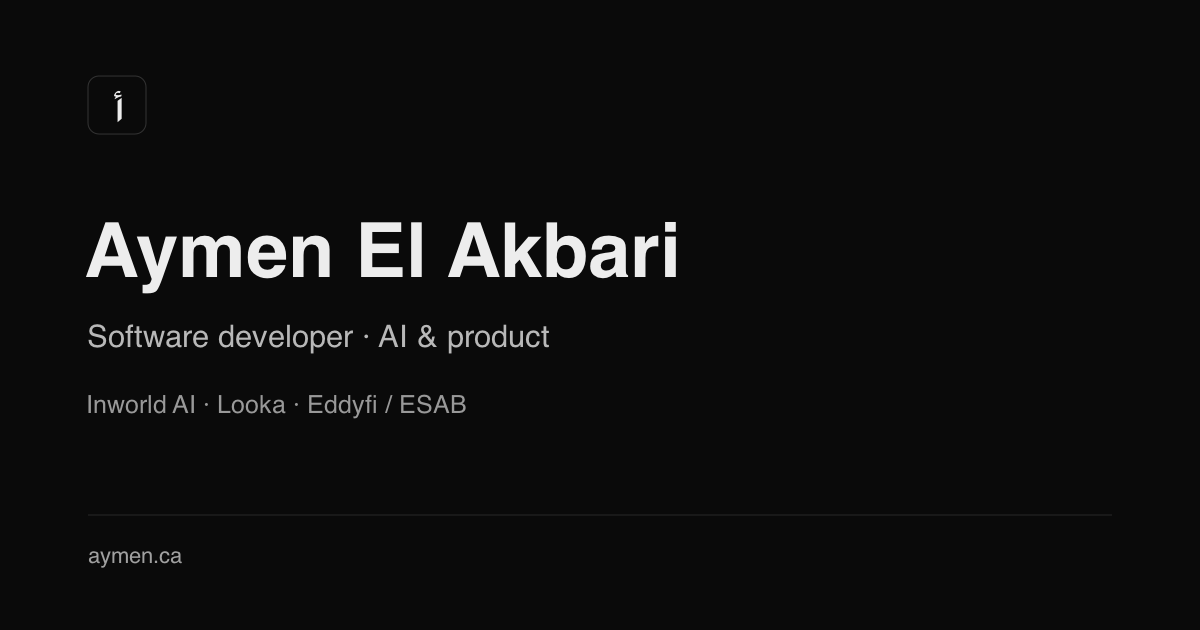
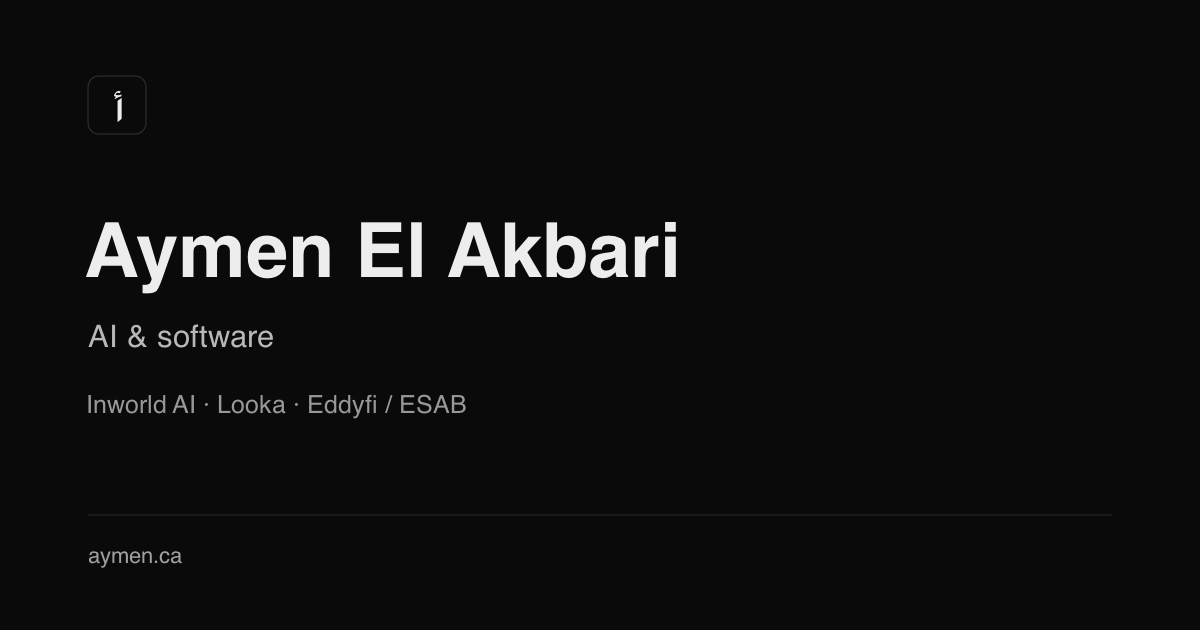
Refine portfolio positioning and add SaaS and stealth work

Changed region(s): [[0.0617, 0.5127, 0.4625, 0.573]]

diff --git a/src/lib/i18n.ts b/src/lib/i18n.ts
@@ -20,6 +20,7 @@ export interface SiteCopy {
 		workTitle: string;
 		work: string[];
 		skillsTitle: string;
+		toolGroups: { title: string; items: string[] }[];
 		experienceTitle: string;
 		experience: { company: string; role: string; period: string; description: string }[];
 		educationTitle: string;
@@ -42,8 +43,8 @@ const copy: Record<Locale, SiteCopy> = {
 		common: { skipToContent: 'Skip to content', contact: 'Get in touch', source: 'Source', backHome: 'Back home', allPosts: 'All notes', allProjects: 'All projects', readMore: 'Read more', updated: 'Updated', share: 'Share', copyLink: 'Copy link', copied: 'Link copied', copyFailed: 'Could not copy. Copy the address from your browser.' },
 		home: {
 			description: 'Aymen El Akbari — software developer in Canada. AI character systems at Inworld, design tools at Looka, and NDT configuration at Eddyfi / ESAB.',
-			role: 'Software developer · AI & product',
-			intro: 'Character memory at Inworld. AI-powered design at Looka. Now, NDT configuration at Eddyfi / ESAB.',
+			role: 'AI & software',
+			intro: 'Character memory at Inworld. AI-powered design at Looka. SaaS at Bloc Solutions. Now, NDT configuration at Eddyfi / ESAB.',
 			employerPrefix: 'Currently at',
 			location: 'Canada.',
 			aboutLink: 'More about me',
@@ -59,14 +60,15 @@ const copy: Record<Locale, SiteCopy> = {
 				'At Eddyfi / ESAB, I build software for non-destructive testing (NDT). The probe tools turn inspection requirements into compatible product configurations and quote requests: tube material and dimensions on one side, probe specifications and part numbers on the other.',
 				'I’ve also had to sell and operate what I built. I founded owood at 18, handled the product and its Shopify store, and took it from a Kickstarter launch to acquisition. Later, I ran a five-person web agency.',
 			],
-			skillsTitle: 'Tools I work with',
+			skillsTitle: 'Toolkit & current focus',
+			toolGroups: [{"title": "AI development", "items": ["Claude", "Codex"]}, {"title": "Current focus", "items": ["AI agents", "AutoML", "Distributed systems"]}, {"title": "Product & services", "items": ["TypeScript", "React", "Vue.js", "Node.js", "Python", "Kotlin", "C# / ASP.NET", "PHP / Laravel"]}, {"title": "Data & delivery", "items": ["PostgreSQL", "SQL / NoSQL", "REST APIs", "Docker"]}],
 			experienceTitle: 'Experience',
 			experience: [
 				{ company: 'ESAB', role: 'Software Developer', period: 'Jun 2026 – present', description: 'Web platforms across Eddyfi, Zetec, Sisgeo, Sensor Networks, and Huggenberger during the ESAB–Eddyfi integration.' },
 				{ company: 'Eddyfi Technologies', role: 'Software Developer', period: 'Sep 2023 – present', description: 'Built the Tubing Probe Creator and PAUT Probe Finder: configuration and quoting tools for non-destructive testing. Also work on internal platforms and API integrations.' },
 				{ company: 'Looka', role: 'Software Developer', period: 'Oct 2021 – Sep 2023', description: 'Built backend services, data pipelines, and product interfaces for AI-generated logos and brand identities.' },
 				{ company: 'Inworld AI', role: 'Kotlin Developer · consultant', period: 'Mar – Aug 2022', description: 'Worked on AI character behavior and memory systems with Kotlin and SQL/NoSQL databases.' },
-				{ company: 'Bloc Solutions', role: 'Analyst → Frontend Developer', period: 'Oct 2019 – Dec 2021', description: 'Moved from analytics into frontend development in October 2020. Built product interfaces with Vue, PHP, and Laravel.' },
+				{ company: 'Bloc Solutions', role: 'Analyst → Frontend Developer', period: 'Oct 2019 – Dec 2021', description: 'Moved from analytics into frontend development in October 2020. Worked on a rental-management SaaS with Vue.js, Laravel, PostgreSQL, and Docker.' },
 				{ company: 'Quota Agence Web', role: 'Founder & Web Developer', period: 'Jun 2020 – Nov 2021', description: 'Ran a five-person agency delivering more than 35 web projects. Worked on development, scoping, sales, and delivery.' },
 				{ company: 'owood', role: 'Founder', period: 'Mar 2018 – Feb 2020', description: 'Founded a wooden watch brand at 18. Built the product and Shopify store, ran the Kickstarter launch, and handled marketing and fulfillment. Acquired in 2020.' },
 			],
@@ -80,10 +82,10 @@ const copy: Record<Locale, SiteCopy> = {
 			outsideTitle: 'Outside of work',
 			outside: [],
 		},
-		projects: { title: 'Work', description: 'Inspection probes, AI characters, brand-generation tools, and a watch brand.' },
+		projects: { title: 'Work', description: 'NDT configuration, AI character systems, design tools, rental-management SaaS, and a new intelligence platform in development.' },
 		blog: { title: 'Notes', description: 'Short notes on web development and the decisions behind this site.', back: 'All notes', empty: 'No notes published yet.' },
 		notFound: { title: 'Page not found', description: 'This page may have moved, or the address may be incorrect.' },
-		status: { active: 'active', shipped: 'built', sunset: 'archived', building: 'in progress', employed: 'at work', running: 'running', exited: 'acquired' },
+		status: { active: 'active', shipped: 'shipped', past: 'past work', sunset: 'closed', building: 'in development', employed: 'at work', running: 'running', exited: 'acquired' },
 	},
 	fr: {
 		nav: { home: 'accueil', about: 'à propos', blog: 'notes', projects: 'projets', label: 'Navigation principale', openMenu: 'Ouvrir le menu', closeMenu: 'Fermer le menu', language: 'Langue' },
@@ -91,8 +93,8 @@ const copy: Record<Locale, SiteCopy> = {
 		common: { skipToContent: 'Aller au contenu', contact: 'Me joindre', source: 'Code source', backHome: "Retour à l’accueil", allPosts: 'Toutes les notes', allProjects: 'Tous les projets', readMore: 'Lire la suite', updated: 'Mise à jour', share: 'Partager', copyLink: 'Copier le lien', copied: 'Lien copié', copyFailed: "Copie impossible. Copiez l’adresse dans votre navigateur." },
 		home: {
 			description: 'Aymen El Akbari, développeur logiciel au Canada. Personnages IA chez Inworld, outils de design chez Looka et configuration de sondes CND chez Eddyfi / ESAB.',
-			role: 'Développeur logiciel · IA & produit',
-			intro: 'La mémoire des personnages chez Inworld. Le design par IA chez Looka. Aujourd’hui, la configuration de sondes CND chez Eddyfi / ESAB.',
+			role: 'IA et logiciel',
+			intro: 'La mémoire des personnages chez Inworld. Le design par IA chez Looka. Le SaaS chez Bloc Solutions. Aujourd’hui, la configuration de sondes CND chez Eddyfi / ESAB.',
 			employerPrefix: 'Actuellement chez',
 			location: 'Canada.',
 			aboutLink: 'En savoir plus sur moi',
@@ -108,14 +110,15 @@ const copy: Record<Locale, SiteCopy> = {
 				'Chez Eddyfi / ESAB, je développe des logiciels de contrôle non destructif (CND). Les outils de sélection de sondes traduisent les besoins d’inspection en configurations compatibles et en demandes de soumission : d’un côté, le matériau et les dimensions d’un tube; de l’autre, les caractéristiques et les numéros de pièce des sondes.',
 				'J’ai aussi dû vendre et faire fonctionner ce que je créais. J’ai fondé owood à 18 ans, conçu le produit et sa boutique Shopify, puis mené la marque d’un lancement sur Kickstarter jusqu’à son acquisition. J’ai ensuite dirigé une agence Web de cinq personnes.',
 			],
-			skillsTitle: 'Mes outils de travail',
+			skillsTitle: 'Outils et pistes actuelles',
+			toolGroups: [{"title": "Développement avec l’IA", "items": ["Claude", "Codex"]}, {"title": "Axes actuels", "items": ["Agents IA", "AutoML", "Systèmes distribués"]}, {"title": "Produit et services", "items": ["TypeScript", "React", "Vue.js", "Node.js", "Python", "Kotlin", "C# / ASP.NET", "PHP / Laravel"]}, {"title": "Données et déploiement", "items": ["PostgreSQL", "SQL / NoSQL", "REST APIs", "Docker"]}],
 			experienceTitle: 'Expérience',
 			experience: [
 				{ company: 'ESAB', role: 'Développeur logiciel', period: 'Juin 2026 – aujourd’hui', description: 'Plateformes Web d’Eddyfi, Zetec, Sisgeo, Sensor Networks et Huggenberger dans le cadre de l’intégration d’ESAB et d’Eddyfi.' },
 				{ company: 'Eddyfi Technologies', role: 'Développeur logiciel', period: 'Sept. 2023 – aujourd’hui', description: 'Création de Tubing Probe Creator et de PAUT Probe Finder : des outils de configuration et de soumission pour le contrôle non destructif. Travail également sur les plateformes internes et les intégrations d’API.' },
 				{ company: 'Looka', role: 'Développeur logiciel', period: 'Oct. 2021 – sept. 2023', description: 'Développement de services backend, de pipelines de données et d’interfaces pour la création de logos et d’identités de marque par IA.' },
 				{ company: 'Inworld AI', role: 'Développeur Kotlin · consultant', period: 'Mars – août 2022', description: 'Travail sur le comportement et la mémoire de personnages IA avec Kotlin et des bases de données SQL/NoSQL.' },
-				{ company: 'Bloc Solutions', role: 'Analyste → développeur frontend', period: 'Oct. 2019 – déc. 2021', description: 'Passage de l’analyse de données au développement frontend en octobre 2020. Création d’interfaces avec Vue, PHP et Laravel.' },
+				{ company: 'Bloc Solutions', role: 'Analyste → développeur frontend', period: 'Oct. 2019 – déc. 2021', description: 'Passage de l’analyse de données au développement frontend en octobre 2020. Travail sur un SaaS de gestion locative avec Vue.js, Laravel, PostgreSQL et Docker.' },
 				{ company: 'Quota Agence Web', role: 'Fondateur et développeur Web', period: 'Juin 2020 – nov. 2021', description: 'Direction d’une agence de cinq personnes et livraison de plus de 35 projets Web. Développement, définition des mandats, ventes et livraison.' },
 				{ company: 'owood', role: 'Fondateur', period: 'Mars 2018 – févr. 2020', description: 'Création d’une marque de montres en bois à 18 ans. Produit, boutique Shopify, lancement sur Kickstarter, marketing et commandes. Entreprise acquise en 2020.' },
 			],
@@ -129,10 +132,10 @@ const copy: Record<Locale, SiteCopy> = {
 			outsideTitle: 'En dehors du travail',
 			outside: [],
 		},
-		projects: { title: 'Projets', description: 'Des sondes d’inspection, des personnages IA, des outils de création de marques et une marque de montres.' },
+		projects: { title: 'Projets', description: 'Configuration de sondes CND, personnages IA, outils de design, SaaS de gestion locative et une plateforme d’intelligence en développement.' },
 		blog: { title: 'Notes', description: 'Quelques notes sur le développement Web et les choix derrière ce site.', back: 'Toutes les notes', empty: 'Aucune note publiée pour le moment.' },
 		notFound: { title: 'Page introuvable', description: 'Cette page a peut-être changé d’adresse, ou le lien est incorrect.' },
-		status: { active: 'actif', shipped: 'réalisé', sunset: 'archivé', building: 'en cours', employed: 'en entreprise', running: 'en activité', exited: 'acquis' },
+		status: { active: 'actif', shipped: 'livré', past: 'travail antérieur', sunset: 'fermé', building: 'en développement', employed: 'en entreprise', running: 'en activité', exited: 'acquis' },
 	},
 	ar: {
 		nav: { home: 'الرئيسية', about: 'نبذة عني', blog: 'مقالات', projects: 'المشاريع', label: 'التنقل الرئيسي', openMenu: 'فتح القائمة', closeMenu: 'إغلاق القائمة', language: 'اللغة' },
@@ -140,8 +143,8 @@ const copy: Record<Locale, SiteCopy> = {
 		common: { skipToContent: 'الانتقال إلى المحتوى', contact: 'تواصل معي', source: 'الشيفرة المصدرية', backHome: 'العودة إلى الرئيسية', allPosts: 'جميع المقالات', allProjects: 'جميع المشاريع', readMore: 'قراءة المزيد', updated: 'آخر تحديث', share: 'مشاركة', copyLink: 'نسخ الرابط', copied: 'تم نسخ الرابط', copyFailed: 'تعذّر النسخ. يمكنك نسخ العنوان من المتصفح.' },
 		home: {
 			description: 'أيمن الأكبري، مطوّر برمجيات في كندا. شخصيات ذكية لدى Inworld، وأدوات تصميم لدى Looka، وأدوات تهيئة مجسّات الفحص لدى Eddyfi / ESAB.',
-			role: 'مطوّر برمجيات · ذكاء اصطناعي ومنتجات',
-			intro: 'ذاكرة الشخصيات لدى Inworld. والتصميم بالذكاء الاصطناعي لدى Looka. واليوم، تهيئة مجسّات الفحص غير الإتلافي لدى Eddyfi / ESAB.',
+			role: 'ذكاء اصطناعي وبرمجيات',
+			intro: 'ذاكرة الشخصيات لدى Inworld. والتصميم بالذكاء الاصطناعي لدى Looka. ومنصات SaaS لدى Bloc Solutions. واليوم، تهيئة مجسّات الفحص غير الإتلافي لدى Eddyfi / ESAB.',
 			employerPrefix: 'أعمل حاليًا لدى',
 			location: 'كندا.',
 			aboutLink: 'المزيد عني',
@@ -157,14 +160,15 @@ const copy: Record<Locale, SiteCopy> = {
 				'أطوّر لدى Eddyfi / ESAB برمجيات للفحص غير الإتلافي. تحوّل أدوات اختيار المجسّات متطلبات الفحص إلى مواصفات منتجات متوافقة وطلبات عروض أسعار: مادة الأنبوب وأبعاده من جهة، ومواصفات المجسّات وأرقام القطع من جهة أخرى.',
 				'سبق لي أيضًا أن تولّيت بيع ما أبنيه وإدارته. أسست owood في سن الثامنة عشرة، وطوّرت المنتج ومتجره على Shopify، من الإطلاق عبر Kickstarter إلى الاستحواذ على العلامة. ثم أدرت وكالة لتطوير الويب من خمسة أشخاص.',
 			],
-			skillsTitle: 'الأدوات التي أستخدمها',
+			skillsTitle: 'أدواتي واهتماماتي الحالية',
+			toolGroups: [{"title": "التطوير بمساعدة الذكاء الاصطناعي", "items": ["Claude", "Codex"]}, {"title": "تركيزي الحالي", "items": ["وكلاء الذكاء الاصطناعي", "AutoML", "الأنظمة الموزّعة"]}, {"title": "المنتجات والخدمات", "items": ["TypeScript", "React", "Vue.js", "Node.js", "Python", "Kotlin", "C# / ASP.NET", "PHP / Laravel"]}, {"title": "البيانات والنشر", "items": ["PostgreSQL", "SQL / NoSQL", "REST APIs", "Docker"]}],
 			experienceTitle: 'الخبرة المهنية',
 			experience: [
 				{ company: 'ESAB', role: 'مطوّر برمجيات', period: 'يونيو 2026 – حتى الآن', description: 'العمل على منصات الويب لدى Eddyfi وZetec وSisgeo وSensor Networks وHuggenberger ضمن عملية التكامل بين ESAB وEddyfi.' },
 				{ company: 'Eddyfi Technologies', role: 'مطوّر برمجيات', period: 'سبتمبر 2023 – حتى الآن', description: 'تطوير أداتي Tubing Probe Creator وPAUT Probe Finder لاختيار مجسّات الفحص غير الإتلافي وتحديد مواصفاتها وطلب عروض أسعار، إلى جانب المنصات الداخلية وتكامل واجهات API.' },
 				{ company: 'Looka', role: 'مطوّر برمجيات', period: 'أكتوبر 2021 – سبتمبر 2023', description: 'تطوير خدمات خلفية ومسارات لمعالجة البيانات وواجهات لإنشاء الشعارات والهويات البصرية بالذكاء الاصطناعي.' },
 				{ company: 'Inworld AI', role: 'مطوّر Kotlin · مستشار', period: 'مارس – أغسطس 2022', description: 'العمل على سلوك الشخصيات الذكية وذاكرتها باستخدام Kotlin وقواعد بيانات SQL وNoSQL.' },
-				{ company: 'Bloc Solutions', role: 'محلل ثم مطوّر واجهات أمامية', period: 'أكتوبر 2019 – ديسمبر 2021', description: 'انتقلت من تحليل البيانات إلى تطوير الواجهات الأمامية في أكتوبر 2020. طوّرت واجهات باستخدام Vue وPHP وLaravel.' },
+				{ company: 'Bloc Solutions', role: 'محلل ثم مطوّر واجهات أمامية', period: 'أكتوبر 2019 – ديسمبر 2021', description: 'انتقلت من تحليل البيانات إلى تطوير الواجهات الأمامية في أكتوبر 2020. عملت على منصة SaaS لإدارة العقارات المؤجّرة باستخدام Vue.js وLaravel وPostgreSQL وDocker.' },
 				{ company: 'Quota Agence Web', role: 'مؤسس ومطوّر ويب', period: 'يونيو 2020 – نوفمبر 2021', description: 'أدرت وكالة من خمسة أشخاص أنجزت أكثر من 35 مشروع ويب. تولّيت التطوير وتحديد نطاق المشاريع والمبيعات والتسليم.' },
 				{ company: 'owood', role: 'مؤسس', period: 'مارس 2018 – فبراير 2020', description: 'أسست علامة للساعات الخشبية في سن الثامنة عشرة. تولّيت المنتج ومتجر Shopify والإطلاق عبر Kickstarter والتسويق وتنفيذ الطلبات. استُحوذ على العلامة في عام 2020.' },
 			],
@@ -178,10 +182,10 @@ const copy: Record<Locale, SiteCopy> = {
 			outsideTitle: 'خارج العمل',
 			outside: [],
 		},
-		projects: { title: 'أعمالي', description: 'مجسّات فحص، وشخصيات ذكية، وأدوات لإنشاء الهويات البصرية، وعلامة للساعات.' },
+		projects: { title: 'أعمالي', description: 'تهيئة مجسّات الفحص، وشخصيات ذكية، وأدوات تصميم، ومنصة لإدارة العقارات، ومنصة ذكاء قيد التطوير.' },
 		blog: { title: 'مقالات', description: 'مقالات قصيرة عن تطوير الويب والخيارات التي يقوم عليها هذا الموقع.', back: 'جميع المقالات', empty: 'لا توجد مقالات منشورة بعد.' },
 		notFound: { title: 'الصفحة غير موجودة', description: 'ربما نُقلت هذه الصفحة، أو أن العنوان غير صحيح.' },
-		status: { active: 'نشط', shipped: 'مُنجز', sunset: 'مؤرشف', building: 'قيد التطوير', employed: 'ضمن عملي', running: 'قائم', exited: 'تم الاستحواذ عليه' },
+		status: { active: 'نشط', shipped: 'مُنجز', past: 'عمل سابق', sunset: 'متوقف', building: 'قيد التطوير', employed: 'ضمن عملي', running: 'قائم', exited: 'تم الاستحواذ عليه' },
 	},
 };
 

diff --git a/src/content.config.ts b/src/content.config.ts
@@ -13,7 +13,7 @@ const projects = defineCollection({
 		translationKey: z.string(),
 		url: z.url().optional(),
 		repo: z.url().optional(),
-		status: z.enum(['active', 'shipped', 'sunset', 'building', 'employed', 'running', 'exited']),
+		status: z.enum(['active', 'shipped', 'past', 'sunset', 'building', 'employed', 'running', 'exited']),
 		tags: z.array(z.string()).default([]),
 		order: z.number(),
 		draft: z.boolean().default(false),

diff --git a/src/lib/types.ts b/src/lib/types.ts
@@ -10,6 +10,7 @@ export interface BlogPost {
 export type ProjectStatus =
 	| "active"
 	| "shipped"
+	| "past"
 	| "sunset"
 	| "building"
 	| "employed"

diff --git a/src/content/projects/ar/stealth_1.md b/src/content/projects/ar/stealth_1.md
@@ -1,12 +1,11 @@
 ---
-title: "أدوات لشركات الخدمات"
-description: "مشاريع مستقلة لأتمتة سير العمل وإعداد تقديرات فورية للأسعار."
+title: "Stealth"
+description: "منصة ذكاء لحل مشكلات واقعية. وكلاء ذكاء اصطناعي، وتعلّم آلي مؤتمت، وأنظمة موزّعة."
 locale: ar
 translationKey: workflow-tools
 status: building
-tags: ["الأتمتة", "الذكاء الاصطناعي"]
-draft: true
-order: 2
+tags: ["AI agents", "AutoML", "Distributed systems"]
+order: 6
 ---
 
-أدوات عملية لشركات الخدمات في كيبيك ومونتريال وتورونتو، تركّز على أتمتة الإجراءات وتسهيل الرد على طلبات عروض الأسعار. ما زالت هذه المشاريع قيد التطوير.
+أبني منصة ذكاء تجمع وكلاء الذكاء الاصطناعي والتعلّم الآلي المؤتمت والأنظمة الموزّعة. الهدف هو ربط الذكاء بمشكلات واقعية وبالإجراءات اللازمة لحلّها. المشروع قيد التطوير، وتفاصيل المنتج غير معلنة حاليًا.

diff --git a/src/content/projects/fr/stealth_1.md b/src/content/projects/fr/stealth_1.md
@@ -1,12 +1,11 @@
 ---
-title: "Outils pour les entreprises de services"
-description: "Projets indépendants d’automatisation et de soumission instantanée."
+title: "Stealth"
+description: "Une plateforme d’intelligence pour des problèmes concrets. Agents IA, AutoML et systèmes distribués."
 locale: fr
 translationKey: workflow-tools
 status: building
-tags: ["Automatisation", "IA"]
-draft: true
-order: 2
+tags: ["Agents IA", "AutoML", "Systèmes distribués"]
+order: 6
 ---
 
-Des outils pratiques pour les entreprises de services à Québec, Montréal et Toronto. L’objectif est d’automatiser les processus et de faciliter les réponses aux demandes de soumission. Projets en cours de développement.
+Je développe une plateforme d’intelligence autour des agents IA, de l’apprentissage automatique automatisé et des systèmes distribués. L’objectif : relier l’intelligence à des problèmes concrets et aux actions nécessaires pour les résoudre. Le projet est en développement; les détails du produit restent confidentiels pour le moment.

diff --git a/src/content/projects/stealth_1.md b/src/content/projects/stealth_1.md
@@ -1,12 +1,11 @@
 ---
-title: "Tools for service businesses"
-description: "Independent work on workflow automation and instant quoting."
+title: "Stealth"
+description: "An intelligence platform for real-world problems. Agents, AutoML, and distributed systems."
 locale: en
 translationKey: workflow-tools
 status: building
-tags: ["Automation", "AI"]
-draft: true
-order: 2
+tags: ["AI agents", "AutoML", "Distributed systems"]
+order: 6
 ---
 
-Practical tools for service businesses in Québec, Montréal, and Toronto. The focus is on automating workflows and helping businesses respond to quote requests. Work in progress.
+I’m building an intelligence platform around AI agents, automated machine learning, and distributed systems. The aim is to connect intelligence to real-world problems and the actions needed to solve them. Still in development; the product details stay under wraps for now.

diff --git a/src/content/projects/ar/bloc-solutions.md b/src/content/projects/ar/bloc-solutions.md
@@ -1,0 +1,12 @@
+---
+title: "منصة SaaS لإدارة الإيجارات"
+description: "واجهات Vue.js لمنصة إدارة الإيجارات لدى Bloc Solutions."
+locale: ar
+translationKey: bloc-solutions
+url: "https://www.bloc.solutions/en"
+status: past
+tags: ["Vue.js", "Laravel", "PostgreSQL", "Docker"]
+order: 4
+---
+
+طوّرت لدى Bloc Solutions واجهات لمنصة SaaS لإدارة الإيجارات باستخدام Vue.js، ضمن بيئة تضم Laravel وPostgreSQL وDocker. انضممت بصفة محلل في عام 2019، ثم انتقلت إلى تطوير الواجهات الأمامية في أكتوبر 2020 واستمررت حتى ديسمبر 2021.

diff --git a/src/content/projects/fr/bloc-solutions.md b/src/content/projects/fr/bloc-solutions.md
@@ -1,0 +1,12 @@
+---
+title: "SaaS de gestion locative"
+description: "Des interfaces Vue.js pour la plateforme de gestion locative de Bloc Solutions."
+locale: fr
+translationKey: bloc-solutions
+url: "https://www.bloc.solutions/fr"
+status: past
+tags: ["Vue.js", "Laravel", "PostgreSQL", "Docker"]
+order: 4
+---
+
+Chez Bloc Solutions, j’ai développé des interfaces pour une plateforme SaaS de gestion locative avec Vue.js, dans un environnement utilisant Laravel, PostgreSQL et Docker. Entré comme analyste en 2019, je suis passé au développement frontend en octobre 2020, jusqu’en décembre 2021.

diff --git a/src/content/projects/bloc-solutions.md b/src/content/projects/bloc-solutions.md
@@ -1,0 +1,12 @@
+---
+title: "Rental-management SaaS"
+description: "Vue.js interfaces for Bloc Solutions’ rental-management platform."
+locale: en
+translationKey: bloc-solutions
+url: "https://www.bloc.solutions/en"
+status: past
+tags: ["Vue.js", "Laravel", "PostgreSQL", "Docker"]
+order: 4
+---
+
+At Bloc Solutions, I built product interfaces for a rental-management SaaS using Vue.js, in a stack with Laravel, PostgreSQL, and Docker. I joined as an analyst in 2019 and moved into frontend development in October 2020, continuing through December 2021.

diff --git a/src/content/projects/ar/owood.md b/src/content/projects/ar/owood.md
@@ -5,7 +5,7 @@ locale: ar
 translationKey: owood
 status: exited
 tags: ["Shopify", "المنتج", "التجارة الإلكترونية"]
-order: 4
+order: 5
 ---
 
 أسست owood في سن الثامنة عشرة. طوّرت منتج الساعات الخشبية ومتجر Shopify، وأطلقت العلامة عبر Kickstarter، وتولّيت الهوية البصرية والتسويق وتنفيذ الطلبات. استُحوذ على المشروع في عام 2020.

diff --git a/src/content/projects/fr/owood.md b/src/content/projects/fr/owood.md
@@ -5,7 +5,7 @@ locale: fr
 translationKey: owood
 status: exited
 tags: ["Shopify", "Produit", "Commerce en ligne"]
-order: 4
+order: 5
 ---
 
 J’ai fondé owood à 18 ans. J’ai conçu les montres en bois et la boutique Shopify, lancé la marque sur Kickstarter, puis pris en charge l’image de marque, le marketing et les commandes. L’entreprise a été acquise en 2020.

diff --git a/src/content/projects/owood.md b/src/content/projects/owood.md
@@ -5,7 +5,7 @@ locale: en
 translationKey: owood
 status: exited
 tags: ["Shopify", "Product", "E-commerce"]
-order: 4
+order: 5
 ---
 
 I founded owood at 18. I built the wooden-watch product and Shopify store, launched it through Kickstarter, and handled branding, marketing, and fulfillment. The business was acquired in 2020.
